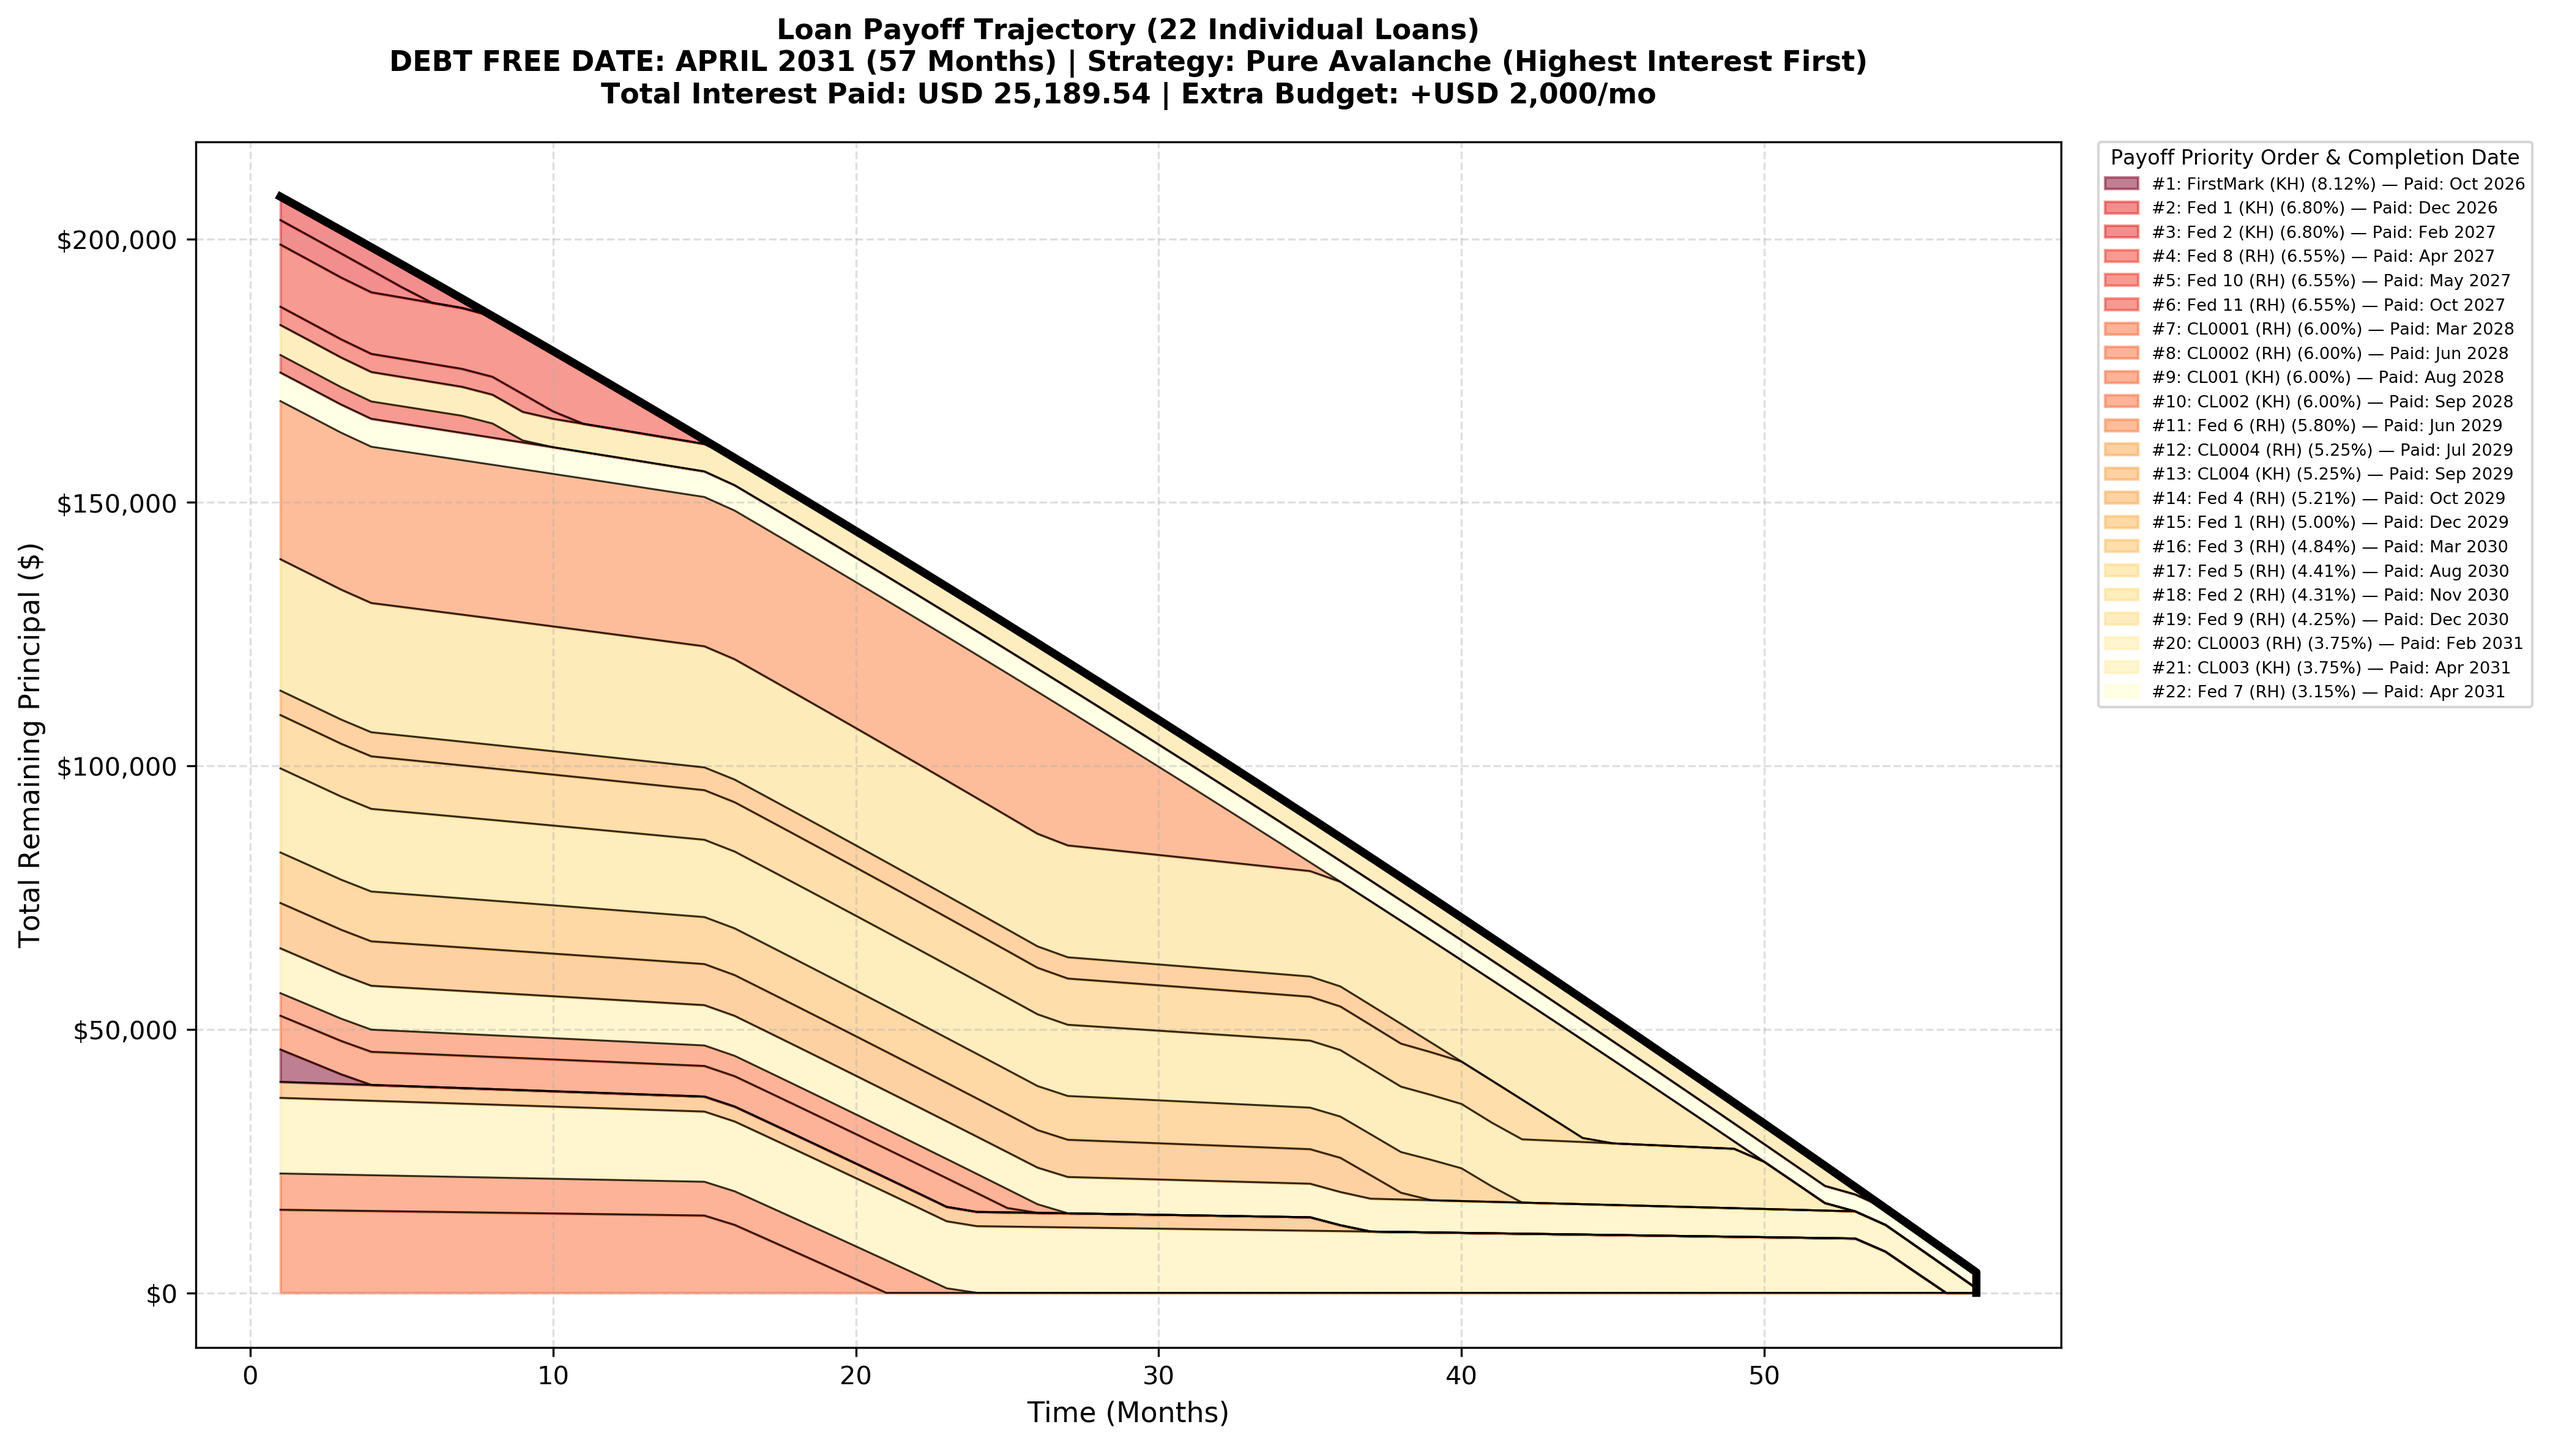
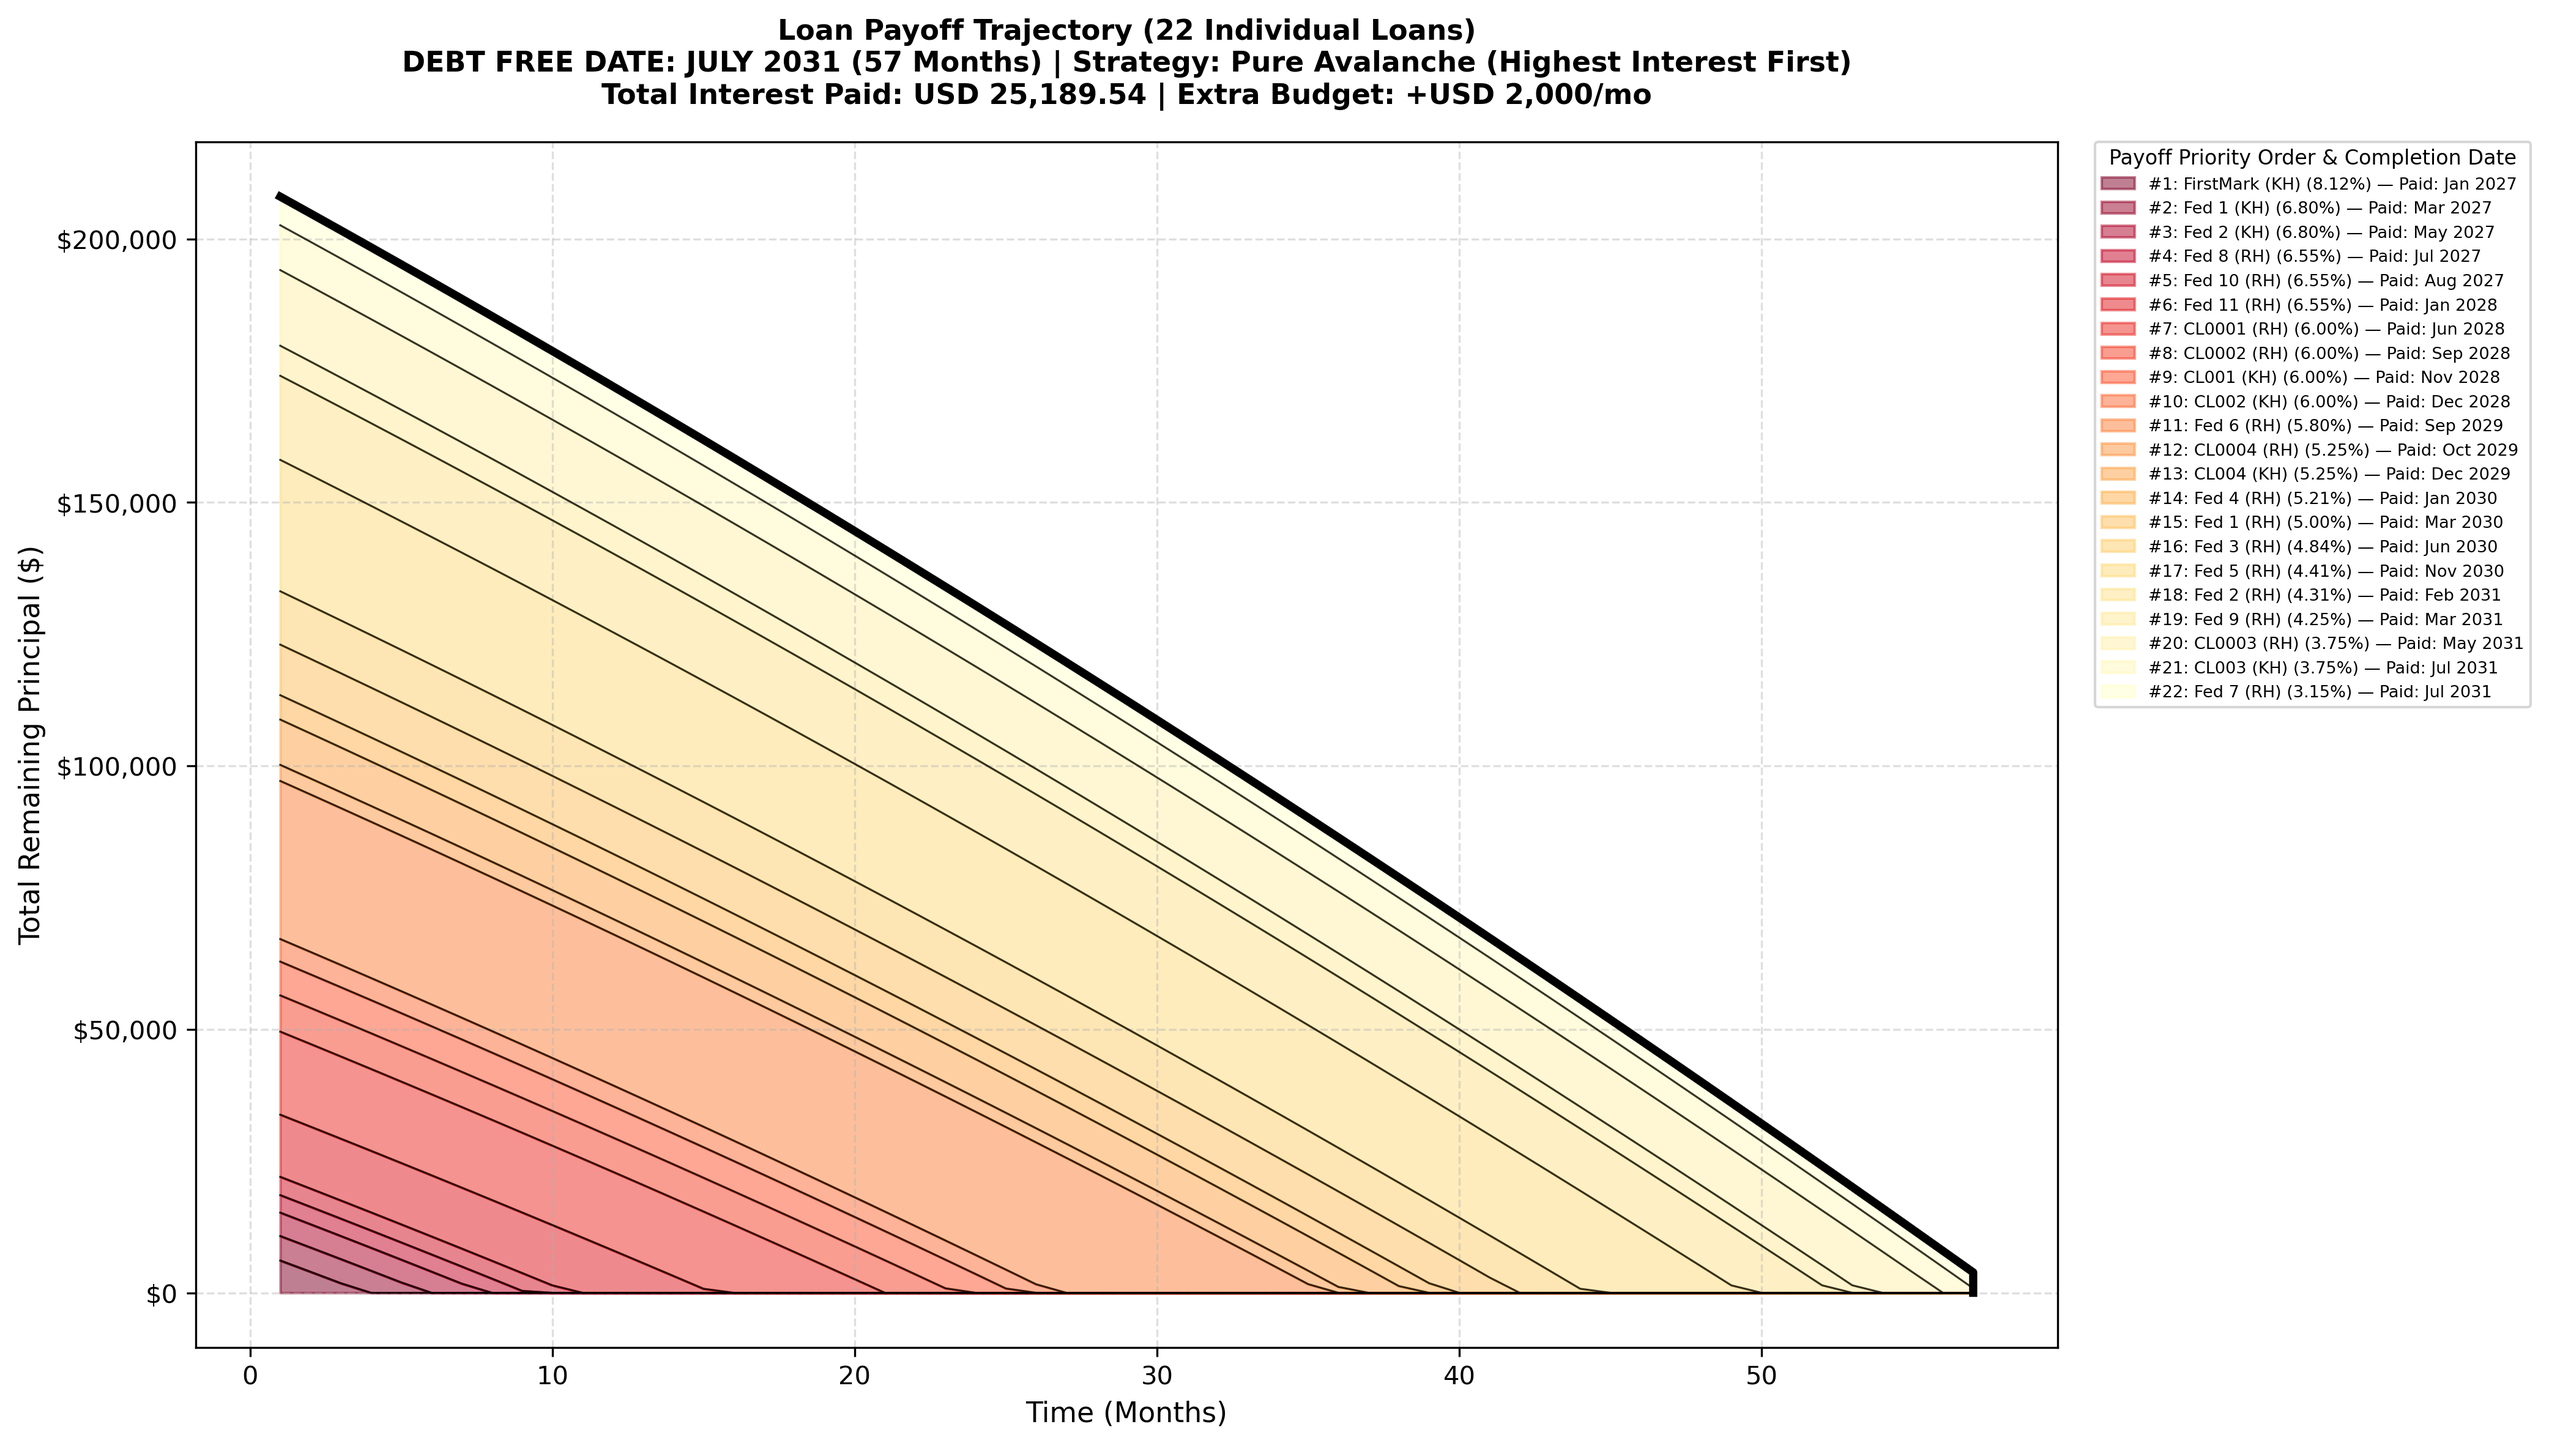
Updated spreadsheet and script to reflect new payment amounts that will start in November 2026

diff --git a/plot_loans.py b/plot_loans.py
@@ -100,6 +100,7 @@ def generate_avalanche_plot(
     history = []
     individual_payoff_months = {}
     total_interest_paid = 0.0
+    focus_payment_history = []
 
     while month < 360:
         total_bal = sum(l["Current Balance"] for l in loans)
@@ -126,10 +127,12 @@ def generate_avalanche_plot(
         # which is what makes this a "true" debt avalanche (minimums
         # from retired loans snowball onto the next target debt).
         freed_minimum_payments = 0.0
+        minimum_paid_this_month = {}
         for l in loans:
             if l["Current Balance"] > 0:
                 pmt = min(l["Current Balance"], l["Minimum Payment"])
                 l["Current Balance"] -= pmt
+                minimum_paid_this_month[l["Loan Name"]] = pmt
             else:
                 freed_minimum_payments += l["Minimum Payment"]
 
@@ -164,6 +167,12 @@ def generate_avalanche_plot(
                 reverse=True,
             )
 
+        # The "focus" loan is whichever active loan sits at the top of
+        # this month's priority order — the one all extra dollars get
+        # aimed at first.
+        focus_name = target_list[0]["Loan Name"] if target_list else None
+
+        extra_paid_this_month = {}
         for l in target_list:
             if extra_pool <= 0:
                 break
@@ -171,6 +180,19 @@ def generate_avalanche_plot(
                 extra_pmt = min(l["Current Balance"], extra_pool)
                 l["Current Balance"] -= extra_pmt
                 extra_pool -= extra_pmt
+                extra_paid_this_month[l["Loan Name"]] = extra_pmt
+
+        if focus_name is not None:
+            focus_total_payment = minimum_paid_this_month.get(
+                focus_name, 0.0
+            ) + extra_paid_this_month.get(focus_name, 0.0)
+            focus_payment_history.append(
+                {
+                    "Month": month,
+                    "Loan Name": focus_name,
+                    "Payment": focus_total_payment,
+                }
+            )
 
         for l in loans:
             name = l["Loan Name"]
@@ -198,19 +220,24 @@ def generate_avalanche_plot(
     # ----------------------------------------------------
     # 3. PLOT GRAPH
     # ----------------------------------------------------
-    loan_names = [l["Loan Name"] for l in loans]
+    # Stack loans in payoff-priority order (rank #1 sits right on the
+    # x-axis, rank #N forms the outer edge) instead of raw spreadsheet
+    # row order. This makes each band collapse to the axis in the same
+    # sequence money is actually applied, so the chart reads left-to-
+    # right AND bottom-to-top as a payoff cascade, and the stacking
+    # order now matches the legend order below.
+    loan_names = [
+        name
+        for name, _rank in sorted(priority_map.items(), key=lambda kv: kv[1])
+    ]
     num_loans = len(loan_names)
 
-    rates = [
-        next(l for l in all_loans_raw if l["Loan Name"] == name)[
-            "Est. Interest Rate"
-        ]
-        * 100.0
-        for name in loan_names
-    ]
-    norm = mcolors.Normalize(vmin=min(rates), vmax=max(rates))
-    colormap = cm.YlOrRd
-    get_loan_color = lambda name, rate: colormap(norm(rate))
+    # Color by priority rank (not raw interest rate) so the gradient is
+    # always a clean "paid first -> paid last" ramp, including under the
+    # hybrid strategy where rank and rate can diverge.
+    norm = mcolors.Normalize(vmin=1, vmax=num_loans)
+    colormap = cm.YlOrRd_r
+    get_loan_color = lambda name: colormap(norm(priority_map[name]))
 
     fig, ax = plt.subplots(figsize=(14, 8))
 
@@ -232,7 +259,7 @@ def generate_avalanche_plot(
         rank = priority_map[name]
         payoff_date_text = individual_payoff_dates.get(name, "N/A")
 
-        curve_color = get_loan_color(name, rate_pct)
+        curve_color = get_loan_color(name)
         label_text = (
             f"#{rank}: {name} ({rate_pct:.2f}%) — Paid: {payoff_date_text}"
         )
@@ -294,6 +321,64 @@ def generate_avalanche_plot(
     output_filename = "avalanche_payoff_chart.png"
     plt.savefig(output_filename, dpi=300, bbox_inches="tight")
     plt.show()
+    plt.close(fig)
+
+    # ----------------------------------------------------
+    # 4. FOCUS-LOAN MONTHLY PAYMENT CHART
+    # ----------------------------------------------------
+    focus_df = pd.DataFrame(focus_payment_history)
+
+    fig2, ax2 = plt.subplots(figsize=(14, 6))
+
+    bar_colors = [
+        get_loan_color(name) for name in focus_df["Loan Name"]
+    ]
+    ax2.bar(
+        focus_df["Month"],
+        focus_df["Payment"],
+        color=bar_colors,
+        width=1.0,
+        edgecolor="none",
+    )
+
+    # Label each contiguous block of months spent focused on the same
+    # loan, once, roughly centered over that block.
+    focus_df["block"] = (
+        focus_df["Loan Name"] != focus_df["Loan Name"].shift()
+    ).cumsum()
+    for _, block_df in focus_df.groupby("block"):
+        loan_name = block_df["Loan Name"].iloc[0]
+        rank = priority_map[loan_name]
+        mid_month = block_df["Month"].mean()
+        max_payment = block_df["Payment"].max()
+        ax2.annotate(
+            f"#{rank}: {loan_name}",
+            xy=(mid_month, max_payment),
+            xytext=(0, 6),
+            textcoords="offset points",
+            ha="center",
+            va="bottom",
+            fontsize=7,
+            rotation=90 if len(block_df) < 3 else 0,
+        )
+
+    ax2.set_title(
+        "Monthly Payment to Current Focus Loan\n"
+        f"(Minimum + Extra Applied to Whichever Loan is Top Priority That Month | Strategy: {strategy_desc})",
+        fontsize=11,
+        fontweight="bold",
+        pad=15,
+    )
+    ax2.set_xlabel("Time (Months)", fontsize=11)
+    ax2.set_ylabel("Payment to Focus Loan ($)", fontsize=11)
+    ax2.yaxis.set_major_formatter(ticker.StrMethodFormatter("${x:,.0f}"))
+    ax2.grid(True, linestyle="--", alpha=0.4, axis="y")
+
+    plt.tight_layout()
+    focus_output_filename = "focus_loan_payment_chart.png"
+    plt.savefig(focus_output_filename, dpi=300, bbox_inches="tight")
+    plt.show()
+    plt.close(fig2)
 
 
 if __name__ == "__main__":
